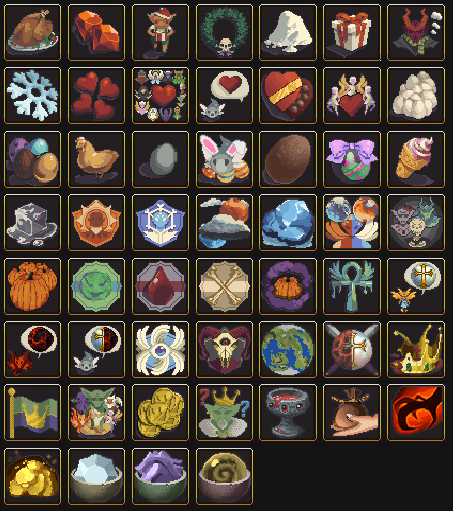
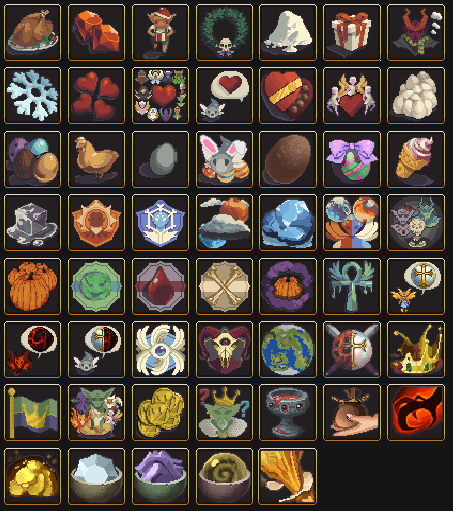
Add new event

Changed region(s): [[0.5563, 0.8806, 0.7108, 0.998]]

diff --git a/Events/index.php b/Events/index.php
@@ -11,27 +11,27 @@
     <script type="text/javascript" src="//w.24timezones.com/l.js" async></script></b></p>
         <p><b>Event will start in</b></p>
         <p id="start">
-            <!--<script>
-      var countDownDate1 = new Date("April 09, 2020 13:01:00 UTC").getTime();
-      var x = setInterval(function() {
-          var now = new Date().getTime();
-          var distance = countDownDate1 - now;
-          var days = Math.floor(distance / (1000 * 60 * 60 * 24));
-          var hours = Math.floor((distance % (1000 * 60 * 60 * 24)) / (1000 * 60 * 60));
-          var minutes = Math.floor((distance % (1000 * 60 * 60)) / (1000 * 60));
-          var seconds = Math.floor((distance % (1000 * 60)) / 1000);
-          document.getElementById("start").innerHTML = days + "d " + hours + "h "
-          + minutes + "m " + seconds + "s ";
-          if (distance < 0) {
-              clearInterval(x);
-          }
-          }, 1000);
-      </script>-->
+			<script>
+			var countDownDate1 = new Date("September 23, 2020 12:01:00 UTC").getTime();
+			var x = setInterval(function() {
+			var now = new Date().getTime();
+				var distance = countDownDate1 - now;
+				var days = Math.floor(distance / (1000 * 60 * 60 * 24));
+				var hours = Math.floor((distance % (1000 * 60 * 60 * 24)) / (1000 * 60 * 60));
+				var minutes = Math.floor((distance % (1000 * 60 * 60)) / (1000 * 60));
+				var seconds = Math.floor((distance % (1000 * 60)) / 1000);
+				document.getElementById("start").innerHTML = days + "d " + hours + "h "
+				+ minutes + "m " + seconds + "s ";
+				if (distance < 0) {
+					clearInterval(x);
+				}
+				}, 1000);
+		  </script>
         </p>
         <p><b>Event will end in</b></p>
         <p id="end">
             <script>
-                var countDownDate2 = new Date("August 24, 2020 18:59:00 UTC").getTime();
+                var countDownDate2 = new Date("September 30, 2020 18:59:00 UTC").getTime();
                 var x = setInterval(function() {
                     var now = new Date().getTime();
                     var distance = countDownDate2 - now;
@@ -55,7 +55,7 @@
                     <tr>
                         <th>Rubies</th>
                         <th colspan="1">Event</th>
-                        <th colspan="6">Total Cumulative Bonus 320%</th>
+                        <th colspan="6">Total Cumulative Bonus 332%</th>
                     </tr>
                 </thead>
                 <tbody>
@@ -138,6 +138,7 @@
                             <td></td>
                             <td></td>
                             <td>12%</td>
+							<td>12%</td>
                         </tr>
                         <tr>
                             <td>32 (8)</td>
@@ -575,6 +576,13 @@
     <p><b>Requirements</b>: Upgrade Balance Remnant to Level 15.</p>
     <p><b>Note</b>: If you unlock all of this event's feats, you will permanently unlock a new color option for the mana bar.</p>
     " coords="196,448,252,504" shape="rect">
+	<area research="
+    <p><b>Idillium</b></p>
+    <p><b><img src=http://musicfamily.org/realm/Factions/picks/BalancedCollector.png align=middle> Balanced Collector</b></p>
+    <p><b>Type</b>: Feat</p>
+    <p><b>Requirements</b>: While affiliated with the Druids, collect a stack of at least 720 Equilibrium Fragments.</p>
+    <p><b>Note</b>: If you unlock this feat, you will permanently unlock a new cosmetic shape for your coin particles.</p>
+    " coords="259,448,316,504" shape="rect">
                 </map>
             </p>
         </center>
@@ -671,6 +679,12 @@
                                 <center>Summer Festival</center>
                             </td>
                         </tr>
+						<tr>
+                            <td>
+                                <center><img src="http://musicfamily.org/realm/Factions/picks/ParticleIdillium.png" width="54" height="54" /></center>
+                                <center>Idillium</center>
+                            </td>
+                        </tr>
                     </tbody>
                 </thead>
             </table>
@@ -718,6 +732,193 @@
         <div class="shlisting">
             <p onclick="shohid($(this));"><b> <a href="#" onclick="return false;">2020 Events</a></b></p>
             <div class="category autohide">
+				<div class="shelementwhole">
+					<p onclick="shohid($(this));"><b><a href="#" onclick="return false;">Idillium  Event (Sep 23 - Sep 30, 2020)</a></b></p>
+                    <div class="autohide">
+                        <p>The event will feature three Resources, <b>Crystal Prisms</b>, <b>Entropic Drops</b> and <b>Equilibrium Fragments</b>, They will appear in a random location of the game screen at a rate of 1 per minute, you can stack them for 16 hours, up to 960.</p>
+                        <p>Being aligned with an elite faction will double the speed a resource is gained.</p>
+                        <p>You need 2814 resources of each (8442 total) to complete all quests.</p>
+                        <p>Total time time needed 5 days 20 hours and 42 minutes without elite factions or scrying.</p>
+                        <p>Which prism appears depends on what faction you are aligned with:</p>
+                        <p>As Fairy, Demon or Faceless, Entropic Drop appears.</p>
+                        <p>As Elf, Goblin or Druid, Equilibrium Fragment appears.</p>
+                        <p>As Angel, Undead or Titan, Crystal Prism appears.</p>
+                        <p>As factionless or Mercenary, all three will appear.</p>
+                        <p>As Factionless or Mercenary you can collect any of the three. By collecting one, the others will disappear.</p>
+                        <style>
+                            div#images {
+                                width: 100%;
+                                text-align: left;
+                            }
+
+                            div#images div {
+                                display: inline-block;
+                            }
+                        </style>
+                        <br>
+                        <p><b><center>Event Resources</center></b></p>
+                        <br>
+                        <div id="images">
+                            <center>
+                                <div>
+                                    <center><img src="http://musicfamily.org/realm/Factions/picks/CrystalPrismCurrency.png" width="54%" height="54%" /></center>
+                                    <center><b>Crystal Prism</b></center>
+                                </div>
+                                &nbsp&nbsp&nbsp&nbsp&nbsp
+                                <div>
+                                    <center><img src="http://musicfamily.org/realm/Factions/picks/EntropicDropCurrency.png" width="54%" height="54%" /></center>
+                                    <center><b>Entropic Drop</b></center>
+                                </div>
+                                &nbsp
+                                <div>
+                                    <center><img src="http://musicfamily.org/realm/Factions/picks/EquilibriumFragmentCurrency.png" width="34%" height="34%" /></center>
+                                    <center><b>Equilibrium Fragment</b></center>
+                                </div>
+                            </center>
+                        </div>
+                        <hr>
+                        <p><b>Event Upgrades</b></p>
+                        <p><img src="/realm/Factions/picks/BrokenMirror.png" align="middle"> <b>Broken Mirror</b></p>
+                        <p><b>Effect</b>: Increase the production of all buildings based on the total amount of Idillium Resources collected.</p>
+                        <p><b>Formula</b>: ((1 + 0.0035 * ((x + y + z) / 3)) * [(1 + min(1.6 * (x / 25) - 0.002 * (x / 25) ^ 2 + 0.000024 * (x / 25) ^ 3,12500)) * (repeat, replace x with y and z)] ^ 0.4), where x is Crystal Prisms (Order), y is Entropic Drops (Chaos), z is Equilibrium Fragments (Balance)</p>
+                        <br>
+                        <p><b>Remnants</b></p>
+                        <p><b>Cost to Upgrade</b>: floor((13 * x + 1) ^ 1.15) Prisms, where x is remnant level.</p>
+                        <p><b>Level 5</b>: Perk 1: total cost: 230 Prisms.</p>
+                        <p><b>Level 10</b>: Perk 2: total cost: 1138 Prisms.</p>
+                        <p><b>Level 15</b>: Perk 3: total cost: 2814 Prisms.</p>
+                        <br>
+                        <p><img src="/realm/Factions/picks/OrderRemnant.png" align="middle"> <b>Order Remnant</b></p>
+                        <p><b>Requirement to Collect</b>: Angels, Undead, Titans, Mercenary or factionless.</p>
+                        <p><b>Effect</b>: Increase the production of all buildings based on Remnant level. Does not suffer Ascension penalties.</p>
+                        <p><b>Formula</b>: (x + 10 * 1.1 ^ (10 + x)), where x is remnant level.</p>
+                        <br>
+                        <p><img src="/realm/Factions/picks/ChaosRemnant.png" align="middle"> <b>Chaos Remnant</b></p>
+                        <p><b>Requirement to Collect</b>: Fairies, Demon, Faceless, Mercenary or factionless.</p>
+                        <p><b>Effect</b>: Increases Assistants based on remnant level.</p>
+                        <p><b>Formula</b>: (x + 10 * 1.1 ^ (10 + x)), where x is remnant level.</p>
+                        <br>
+                        <p><img src="/realm/Factions/picks/BalanceRemnant.png" align="middle"> <b>Balance Remnant</b></p>
+                        <p><b>Requirement to Collect</b>: Elves, Goblins, Druids, Mercenary or factionless.</p>
+                        <p><b>Effect</b>: Increases Faction Coin Find Chance based on remnant level.(multiplicative)</p>
+                        <p><b>Formula</b>: (x + 10 * 1.1 ^ (10 + x)), where x is remnant level.</p>
+                        <hr>
+                        <p><b>Quest</b></p>
+                        <p><b>Note</b>: Completing all Quest will increase your Cumulative Event bonus by an additional 12%.</p>
+                        <br>
+                        <p><img src="/realm/Factions/picks/OrderRestoration1.png" align="middle"> <b>Order Restoration 1</b></p>
+                        <p><b>Requirement</b>: Order Remnant level 5.</p>
+                        <p><b>Effect</b>: Unlocks Order Remnant Perk 1.</p>
+                        <p><b>Effect</b>: Adds 1% to your Cumulative Event bonus.</p>
+                        <p><img src="/realm/Factions/picks/OrderRemnantPerk1.png" align="middle"> <b>Order Remnant Perk 1</b></p>
+                        <p><b>Effect</b>: Increases all spells duration and reduce all spells cost by 10%.</p>
+                        <br>
+                        <p><img src="/realm/Factions/picks/OrderRestoration2.png" align="middle"> <b>Order Restoration 2</b></p>
+                        <p><b>Requirement</b>: Order Remnant level 10.</p>
+                        <p><b>Effect</b>: Unlocks Order Remnant Perk 2.</p>
+                        <p><b>Effect</b>: Adds 1% to your Cumulative Event bonus.</p>
+                        <p><img src="/realm/Factions/picks/OrderRemnantPerk2.png" align="middle"> <b>Order Remnant Perk 2</b></p>
+                        <p><b>Effect</b>: Grants Temporal Flux spell with a cost of 1000 mana.</p>
+                        <p><img src="/realm/Factions/picks/TemporalFlux1000.png" align="middle"></p>
+                        <p><b>Effect</b>: Increase Unique building production based on time spent in this game.</p>
+                        <p><b>Effect</b>: Also multiplicatively increase Mana Regeneration based on time spent in this game.</p>
+                        <p><b>Note</b>: Temporal Flux obtained this way cannot be tiered.</p>
+                        <br>
+                        <p><img src="/realm/Factions/picks/OrderRestoration3.png" align="middle"> <b>Order Restoration 3</b></p>
+                        <p><b>Requirement</b>: Order Remnant level 15.</p>
+                        <p><b>Effect</b>: Unlocks Order Remnant Perk 3.</p>
+                        <p><b>Effect</b>: Adds 2% to your Cumulative Event bonus.</p>
+                        <p><img src="/realm/Factions/picks/OrderRemnantPerk3.png" align="middle"> <b>Order Remnant Perk 3</b></p>
+                        <p><b>Effect</b>: Increases Maximum Mana by 25%.</p>
+                        <hr>
+                        <p><img src="/realm/Factions/picks/ChaosRestoration1.png" align="middle"> <b>Chaos Restoration 1</b></p>
+                        <p><b>Requirement</b>: Chaos Remnant level 5.</p>
+                        <p><b>Effect</b>: Unlocks Chaos Remnant Perk 1.</p>
+                        <p><b>Effect</b>: Adds 1% to your Cumulative Event bonus.</p>
+                        <p><img src="/realm/Factions/picks/ChaosRemnantPerk1.png" align="middle"> <b>Chaos Remnant Perk 1</b></p>
+                        <p><b>Effect</b>: Increases Production Bonus from Gems by 18%.</p>
+                        <br>
+                        <p><img src="/realm/Factions/picks/ChaosRestoration2.png" align="middle"> <b>Chaos Restoration 2</b></p>
+                        <p><b>Requirement</b>: Chaos Remnant level 10.</p>
+                        <p><b>Effect</b>: Unlocks Chaos Remnant Perk 2.</p>
+                        <p><b>Effect</b>: Adds 1% to your Cumulative Event bonus.</p>
+                        <p><img src="/realm/Factions/picks/ChaosRemnantPerk2.png" align="middle"> <b>Chaos Remnant Perk 2</b></p>
+                        <p><b>Effect</b>: Grants Maelstrom spell with a cost of 1000 mana.</p>
+                        <p><img src="/realm/Factions/picks/Maelstrom1000.png" align="middle"></p>
+                        <p><b>Effect</b>: Increase the production of three random buildings based on one of these stats in this game, chosen at random: mana produced, trophies unlocked, Faction Coins found or amount of assistants.</p>
+                        <p><b>Formulas</b></p>
+                        <p><b>Mana</b>: (0.02 * (log10(1 + x)) ^ 5)%, where x is mana produced this game.</p>
+                        <p><b>Trophy</b>: Formula (2.5 * x ^ 0.9)%, where x is trophies unlocked.</p>
+                        <p><b>Faction Coins</b>: (0.01 * (log10(1 + x)) ^ 4)%, where x is faction coins found this game.</p>
+                        <p><b>Assistants</b>: (0.25 * (log10(1 + x)) ^ 5)%, where x is amount of assistants.</p>
+                        <p><b>Note</b>: Maelstrom obtained this way cannot be tiered.</p>
+                        <br>
+                        <p><img src="/realm/Factions/picks/ChaosRestoration3.png" align="middle"> <b>Chaos Restoration 3</b></p>
+                        <p><b>Requirement</b>: Chaos Remnant level 15.</p>
+                        <p><b>Effect</b>: Unlocks Chaos Remnant Perk 3.</p>
+                        <p><b>Effect</b>: Adds 2% to your Cumulative Event bonus.</p>
+                        <p><img src="/realm/Factions/picks/ChaosRemnantPerk3.png" align="middle"> <b>Chaos Remnant Perk 3</b></p>
+                        <p><b>Effect</b>: Increases Mana Regeneration by 50%.</p>
+                        <hr>
+                        <p><img src="/realm/Factions/picks/BalanceRestoration1.png" align="middle"> <b>Balance Restoration 1</b></p>
+                        <p><b>Requirement</b>: Balance Remnant level 5.</p>
+                        <p><b>Effect</b>: Unlocks Balance Remnant Perk 1.</p>
+                        <p><b>Effect</b>: Adds 1% to your Cumulative Event bonus.</p>
+                        <p><img src="/realm/Factions/picks/BalanceRemnantPerk1.png" align="middle"> <b>Balance Remnant Perk 1</b></p>
+                        <p><b>Effect</b>: Increases Tax Collection worth by 30 seconds.</p>
+                        <br>
+                        <p><img src="/realm/Factions/picks/BalanceRestoration2.png" align="middle"> <b>Balance Restoration 2</b></p>
+                        <p><b>Requirement</b>: Balance Remnant level 10.</p>
+                        <p><b>Effect</b>: Unlocks Balance Remnant Perk 2.</p>
+                        <p><b>Effect</b>: Adds 1% to your Cumulative Event bonus.</p>
+                        <p><img src="/realm/Factions/picks/BalanceRemnantPerk2.png" align="middle"> <b>Balance Remnant Perk 2</b></p>
+                        <p><b>Effect</b>: Grants All Creation spell with a cost of 1000 mana.</p>
+                        <p><img src="/realm/Factions/picks/AllCreation1000.png" align="middle"></p>
+                        <p><b>Effect</b>: Increase production of all buildings based on mana regeneration rate.</p>
+                        <p><b>Effect</b>: Also multiplicative increase Faction Coin find chance based on your mana regeneration rate.</p>
+                        <p><b>Formula</b>: (0.15 * ln(x) ^ 3.5 + 0.9 * x ^ 0.27), where x is mana per seconds.</p>
+                        <p><b>Note</b>: All Creation obtained this way cannot be tiered.</p>
+                        <br>
+                        <p><img src="/realm/Factions/picks/BalanceRestoration3.png" align="middle"> <b>Balance Restoration 3</b></p>
+                        <p><b>Requirement</b>: Balance Remnant level 15.</p>
+                        <p><b>Effect</b>: Unlocks Balance Remnant Perk 3.</p>
+                        <p><b>Effect</b>: Adds 2% to your Cumulative Event bonus.</p>
+                        <p><img src="/realm/Factions/picks/BalanceRemnantPerk3.png" align="middle"> <b>Balance Remnant Perk 3</b></p>
+                        <p><b>Effect</b>: Increases Royal Exchange Bonus by 20% (Additive).</p>
+                        <hr>
+                        <p><b>Feats</b></p>
+                        <p><b>Note</b>: If you unlock all of this event's feats, you will permanently unlock a new color option for the mana bar.</p>
+                        <br>
+                        <p><img src=http://musicfamily.org/realm/Factions/picks/GentleCollector.png align=middle> <b>Gentle Collector</b></p>
+                        <p><b>Requirements</b>: Collect at least 480 Entropic Drops with a single click while affiliated with the Fairies.</p>
+                        <br>
+                        <p><img src=http://musicfamily.org/realm/Factions/picks/AggressiveCollector.png align=middle> <b>Aggressive Collector</b></p>
+                        <p><b>Requirements</b>: Collect at least 480 Crystal Prisms with a single click while affiliated with the Undead.</p>
+                        <br>
+                        <p><img src=http://musicfamily.org/realm/Factions/picks/GoldenAge.png align=middle> <b>Golden Age</b></p>
+                        <p><b>Requirements</b>: Cast Remnant spells at least 1000 times.</p>
+                        <br>
+						<p><img src=http://musicfamily.org/realm/Factions/picks/BalancedCollector.png align=middle> <b>Balanced Collector</b></p>
+                        <p><b>Requirements</b>: While affiliated with the Druids, collect a stack of at least 720 Equilibrium Fragments.</p>
+						<p><b>Note</b>: If you unlock this feat, you will permanently unlock a new cosmetic shape for your coin particles.</p>
+                        <br>
+                        <p><img src=http://musicfamily.org/realm/Factions/picks/OrderRestoration.png align=middle> <b>Order Restoration</b></p>
+                        <p><b>Requirements</b>: Upgrade Order Remnant to Level 15.</p>
+                        <br>
+                        <p><img src=http://musicfamily.org/realm/Factions/picks/ChaosRestoration.png align=middle> <b>Chaos Restoration</b></p>
+                        <p><b>Requirements</b>: Upgrade Chaos Remnant to Level 15.</p>
+                        <br>
+                        <p><img src=http://musicfamily.org/realm/Factions/picks/BalanceRestoration.png align=middle> <b>Balance Restoration</b></p>
+                        <p><b>Requirements</b>: Upgrade Balance Remnant to Level 15.</p>
+                        <hr>
+                        <p><b>Shop Items</b></p>
+                        <p><img src=http://musicfamily.org/realm/Factions/picks/IdilliumShop45.png align=middle> <b>1200 each Idillium Resource</b></p>
+                        <p><b>Cost</b>: 45 Rubies</p>
+                        <p><b>Description</b>: A shady prophet wants to sell you 1200 units of each Idillium Resource for 45 Rubies.</p>
+                        <p><b>Note</b>: You can purchase this an infinite amount of times.</p>
+                        <br/>
+                    </div>
+                </div>
                 <div class="shelementwhole">
                     <p onclick="shohid($(this));"><b><a href="#" onclick="return false;">Summer Festival (Aug 17 - Aug 24, 2020)</a></b></p>
                     <div class="autohide">
@@ -873,7 +1074,6 @@
                 <div class="shelementwhole">
                     <p onclick="shohid($(this));"><b><a href="#" onclick="return false;">Goblin Invasion (June 9 - July 13, 2020)</a></b></p>
                     <div class="autohide">
-
                         <p><b><img src="/realm/Factions/picks/TheGreatestArmy2017.png" alt="The Greatest Army" align="middle"> The Greatest Army</b></p>
                         <p><b>Cost</b>: Free</p>
                         <p><b>Effect</b>: Increase the production of all buildings based on the total amount of Goblin Crowns collected.</p>
@@ -1897,10 +2097,10 @@
                         <p><img src="/realm/Factions/picks/Maelstrom1000.png" align="middle"></p>
                         <p><b>Effect</b>: Increase the production of three random buildings based on one of these stats in this game, chosen at random: mana produced, trophies unlocked, Faction Coins found or amount of assistants.</p>
                         <p><b>Formulas</b></p>
-                        <p><b>Mana</b>: (0.02 * (log10(1+x)) ^ 5)%, where x is mana produced this game.</p>
+                        <p><b>Mana</b>: (0.02 * (log10(1 + x)) ^ 5)%, where x is mana produced this game.</p>
                         <p><b>Trophy</b>: Formula (2.5 * x ^ 0.9)%, where x is trophies unlocked.</p>
-                        <p><b>Faction Coins</b>: (0.01 * (log10(1+x)) ^ 4)%, where x is faction coins found this game.</p>
-                        <p><b>Assistants</b>: (0.25 * (log10(1+x)) ^ 5)%, where x is amount of assistants.</p>
+                        <p><b>Faction Coins</b>: (0.01 * (log10(1 + x)) ^ 4)%, where x is faction coins found this game.</p>
+                        <p><b>Assistants</b>: (0.25 * (log10(1 + x)) ^ 5)%, where x is amount of assistants.</p>
                         <p><b>Note</b>: Maelstrom obtained this way cannot be tiered.</p>
                         <br>
                         <p><img src="/realm/Factions/picks/ChaosRestoration3.png" align="middle"> <b>Chaos Restoration 3</b></p>
